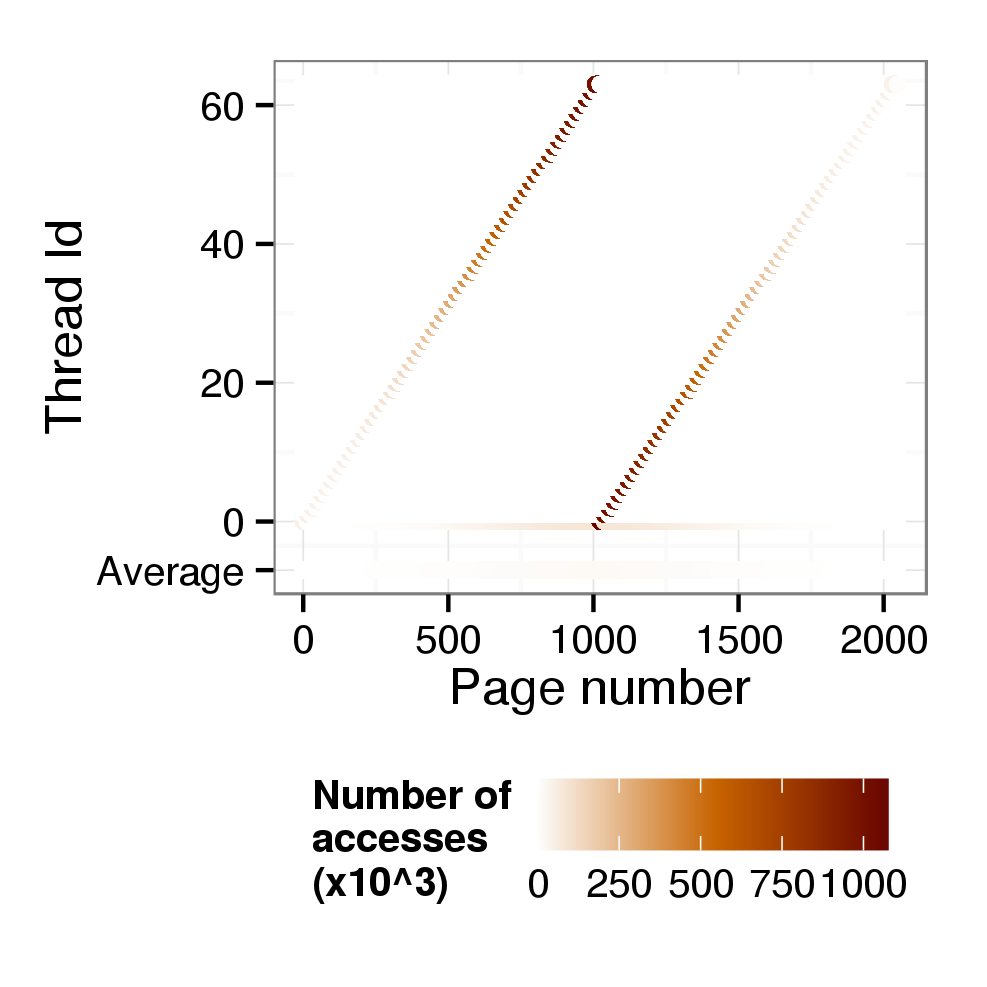
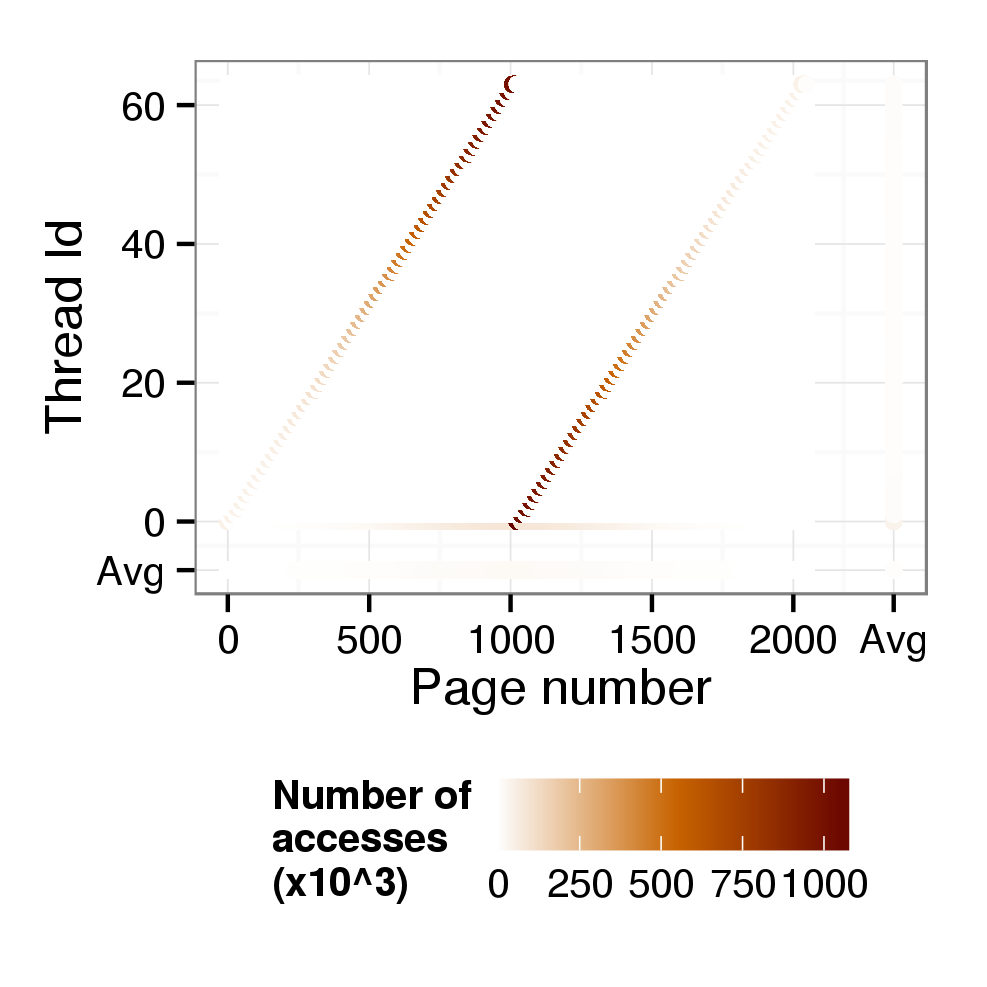
new plots and plot placemnts + IS text updated

diff --git a/tex/design.tex b/tex/design.tex
@@ -95,18 +95,25 @@ done to make the output more readable.
 %However, it is possible to ask
 %\TABARNAC not to ignore structures in the second case for a more detailed view.
 
-\begin{figure}[htb]
+\begin{figure*}[htb]
     \centering
     \subfigure[Structures size.]{
-        \includegraphics[width=.64\linewidth]{example_sz}
+        \includegraphics[width=.3\linewidth]{example_sz}
         \label{fig:example_sz}
     }
-    \subfigure[Number of accesses.]{
-        \includegraphics[width=.64\linewidth]{example_rw}
+    \subfigure[Number of accesses per structures.]{
+        \includegraphics[width=.3\linewidth]{example_rw}
         \label{fig:example_rw}
     }
-    \caption{Overview of an application's data structures}
-\end{figure}
+    \subfigure[First touch distribution inside a structure.
+%   Each point shows which thread is responsible of the first access on one page.
+    ]{
+        \includegraphics[width=.3\linewidth]{example_ft}
+        \label{fig:example_ft}
+    }
+    \caption{Example plots from \TABARNAC.}
+    \label{fig:example_plot1}
+\end{figure*}
 
 The first series of plots presents information concerning the relative
 importance of the data structures. It consists of two plots, showing first the
@@ -118,31 +125,17 @@ useful as it determines the possible optimizations. For instance, structures
 written only during initialization (or very rarely) can be relatively easily
 duplicated, such that each NUMA node works on a local copy.
 
-\begin{figure}[htb]
-    \centering
-    \subfigure[Access distribution.% inside a structure.
-%    Each point represents the number of access to one page done by one thread.
-    ]{
-        \includegraphics[width=.64\linewidth]{example_dist}
-        \label{fig:example_dist}
-    }
-    \subfigure[First touch distribution.% inside a structure.
-%   Each point shows which thread is responsible of the first access on one page.
-    ]{
-        \includegraphics[width=.64\linewidth]{example_ft}
-        \label{fig:example_ft}
-    }
-    \label{fig:example_plot1}
-    \caption{Per thread usage of a data structure.}
-\end{figure}
 The second series of plots is the most important one. For each structure, it
-shows the density of accesses performed by each thread and the
-global distribution. As we can see in Figure~\ref{fig:example_dist}, there is
-one line per thread and one line for the average number of accesses. The darker
-is the line the more the thread accesses the page. It gives an easy way to
-understand the data sharing between threads and the usage of structures. These
-plots can be used to identify inefficient memory usages and to determine the best
-NUMA mapping policy.
+shows for each page of each structure
+which thread was responsible for the first touch
+(Figure~\ref{fig:example_ft}). This information is important as the
+default policy for \emph{Linux} and most other operating systems is to map a page as close as possible to the first
+thread accessing it. If the first touch distribution does not fit the actual
+access distribution, the default mapping done by \emph{Linux} might not be
+efficient. To address this issue, the developer can either correct the first
+touch or do some manual data mapping to ensure better memory access locality
+during the execution.
+
 
 %\begin{figure}[htb]
 %    \centering
@@ -153,12 +146,21 @@ NUMA mapping policy.
 %\end{figure}
 
 
-Finally, \TABARNAC shows for each page of each structure
-which thread was responsible for the first touch
-(Figure~\ref{fig:example_ft}). This information is important as the
-default policy for \emph{Linux} and most other operating systems is to map a page as close as possible to the first
-thread accessing it. If the first touch distribution does not fit the actual
-access distribution, the default mapping done by \emph{Linux} might not be
-efficient. To address this issue, the developer can either correct the first
-touch or do some manual data mapping to ensure better memory access locality
-during the execution.
+
+\begin{figure}[htb]
+    \centering
+    \includegraphics[width=.7\linewidth]{example_dist}
+    \caption{Per thread access distribution inside a structure.}
+    \label{fig:example_dist}
+\end{figure}
+
+Finally, \TABARNAC shows the density of accesses performed by each thread and
+the global distribution. As we can see in Figure~\ref{fig:example_dist}, each
+horizontal line represents the number of accesses on one page, there is one
+line per thread and one for the average number of accesses. Moreover for each
+thread the average number of accesses to the structure is displayed. The
+darker is the line the more the thread accesses the page. It gives an easy way
+to understand the data sharing between threads, the balance between pages and
+threads. These plots can be used to identify inefficient memory usages and to
+determine the best NUMA mapping policy.
+

diff --git a/tex/experiments.tex b/tex/experiments.tex
@@ -283,7 +283,7 @@ over the structures.
 \begin{figure}[htb]
     \centering
 %    \subfigure[\emph{Ondes3D}.]{
-    \includegraphics[width=.64\linewidth]{ondes3d_exectime}
+    \includegraphics[width=.9\linewidth]{ondes3d_exectime}
 %    }
 %    \subfigure[\emph{IS} (class D).]{
 %        \includegraphics[width=.45\linewidth]{is_exectime}
@@ -413,12 +413,16 @@ This modification can be done by simply changing one line of code, the
 %\end{lstlisting}
 
 
-With this simple code modification, we obtain the access distribution
-shown in the bottom of Figure~\ref{fig:is-behaviour}. We can see that the Gaussian
-access pattern of \texttt{key\_buff1} is now better balanced between the threads. Each page
-of this structure is mostly used by only one thread. Moreover,
-\texttt{key\_buff2}'s access distribution has also changed. We can see that
-each thread uses mostly one part of the array.
+With this simple code modification, we obtain the access distribution shown in
+the bottom of Figure~\ref{fig:is-behaviour}. We can see that now each thread
+access a different part of \texttt{key\_buff1}. Furthermore, if most of the
+accesses still occurs in the middle of the structure, the average number of
+access across the structure is the same for every threads which means that our
+distribution preserve the good load balancing. Our modification has also
+changed \texttt{key\_buff2}'s accesses distribution. We can see that each
+thread uses mostly one part of the array and again the load balance is
+preserved.
+
 The main point of our code modification is to improve the affinity between
 thread and memory, therefore we need to pin each thread on a core to keep them
 close to the data they access. %To perform the thread mapping, we use the \texttt{GOMP\_CPU\_AFFINITY} environment variable.
@@ -434,7 +438,7 @@ Balancing are not relevant with our modifications and are therefore not included
 
 \begin{figure}[htb]
     \centering
-    \includegraphics[width=.64\linewidth]{is_exectime}
+    \includegraphics[width=.9\linewidth]{is_exectime}
     \caption{Speedup for \emph{IS} (class D) compared to the baseline.}
 \label{fig:is-res}
 \end{figure}
